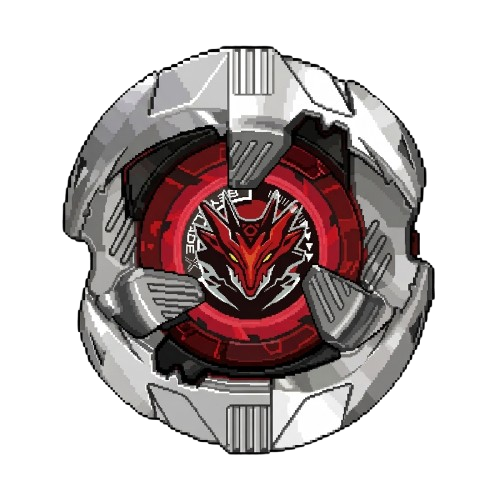
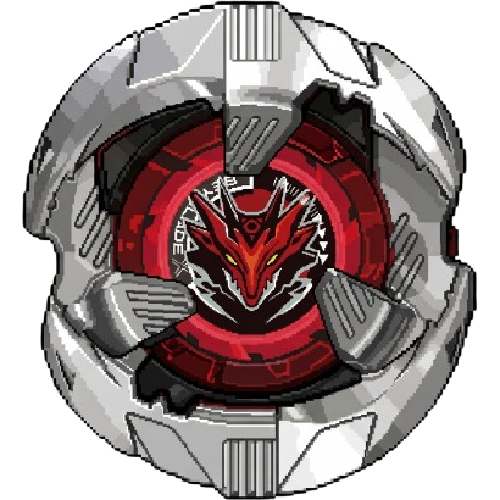
Crop Shelter Drake art so the battle disc fills the sprite box.
The PNG had ~18% extra padding, so even a 1.26 draw scale still
looked small next to full-bleed Beys. Trim and nearest-neighbor
scale back to 500px. Hit size stays r=4.85.

diff --git a/index.html b/index.html
@@ -7,14 +7,14 @@
     <link rel="preconnect" href="https://fonts.googleapis.com">
     <link rel="preconnect" href="https://fonts.gstatic.com" crossorigin>
     <link href="https://fonts.googleapis.com/css2?family=Kanit:wght@500;700;800;900&family=Staatliches&display=swap" rel="stylesheet">
-    <link rel="stylesheet" href="style.css?v=8.89">
+    <link rel="stylesheet" href="style.css?v=8.90">
 </head>
 <body>
 <div id="app"></div>
-<script src="movement-engine.js?v=8.89"></script>
-<script src="xrail-engine.js?v=8.89"></script>
-<script src="vs-commentary.js?v=8.89"></script>
-<script src="app.js?v=8.89"></script>
-<script src="rogue-mode.js?v=8.89"></script>
+<script src="movement-engine.js?v=8.90"></script>
+<script src="xrail-engine.js?v=8.90"></script>
+<script src="vs-commentary.js?v=8.90"></script>
+<script src="app.js?v=8.90"></script>
+<script src="rogue-mode.js?v=8.90"></script>
 </body>
 </html>

diff --git a/app.js b/app.js
@@ -624,8 +624,7 @@ const BLADE_ENGINE = {
         tier:"Bronze",
         spin:"Right",
         weight:32.4,
-        sprite:"assets/blades/shelterdrake.png",
-        battleSpriteScale:1.26,
+        sprite:"assets/blades/shelterdrake.png?v=8.90",
 
         card:{ovr:71,attack:70,knockback:68,defense:67,mobility:80,balance:82,stamina:78,burst:70},
 

diff --git a/AGENTS.md b/AGENTS.md
@@ -4,8 +4,8 @@ Vanilla HTML/CSS/JS Beyblade X–style stadium game. There is no package manager
 
 ## Cursor Cloud specific instructions
 
-- Serve the repo root over HTTP (`python3 -m http.server 8080`) and open `index.html`. Scripts are cache-busted (`style.css?v=8.89`, `xrail-engine.js?v=8.89`, `app.js?v=8.89`, `movement-engine.js?v=8.89`, `vs-commentary.js?v=8.89`, `rogue-mode.js?v=8.89`); hard-refresh after pulling.
-- Blade art is optional. If `BLADE_ENGINE` has a `sprite` path, combo cards and the battle model use that PNG; otherwise the gold/silver circle stays. Phoenix Wing stays on `assets/blades/phienix_wing1.png`. Other blades map to the PNGs in `assets/blades/` (Leon Claw uses `Leonfang.png`, Shelter Drake uses `shelterdrake.png`, Dran Sword uses `Dransword (1).png`). Battle sprites are sized to the circle (`r=4.85`) and spin clockwise from live RPM until 0. Shelter Drake’s PNG has extra padding, so its battle model uses `battleSpriteScale` `1.26` (visual only; hit size stays `r=4.85`). Live battle Beys draw a faint, short (~220ms) gold/slate motion trail under the model so the path is readable on the light bowl; it is visual-only and does not change physics.
+- Serve the repo root over HTTP (`python3 -m http.server 8080`) and open `index.html`. Scripts are cache-busted (`style.css?v=8.90`, `xrail-engine.js?v=8.90`, `app.js?v=8.90`, `movement-engine.js?v=8.90`, `vs-commentary.js?v=8.90`, `rogue-mode.js?v=8.90`); hard-refresh after pulling.
+- Blade art is optional. If `BLADE_ENGINE` has a `sprite` path, combo cards and the battle model use that PNG; otherwise the gold/silver circle stays. Phoenix Wing stays on `assets/blades/phienix_wing1.png`. Other blades map to the PNGs in `assets/blades/` (Leon Claw uses `Leonfang.png`, Shelter Drake uses `shelterdrake.png` (cropped to fill the sprite box; the original file had extra padding so the battle disc looked small), Dran Sword uses `Dransword (1).png`). Battle sprites are sized to the circle (`r=4.85`) and spin clockwise from live RPM until 0. A blade may set `battleSpriteScale` for visual-only size (hit size stays `r=4.85`). Live battle Beys draw a faint, short (~220ms) gold/slate motion trail under the model so the path is readable on the light bowl; it is visual-only and does not change physics.
 - Bit art lives in `assets/blades/png bit/`. Selectable bits with a PNG (Flat, Low Flat, Rush, Point, Hexa, Level, Wedge, Kick, Ball, Orb, Needle, Quake) show on bit pick cards and the VS combo plates. Low Rush still has no dedicated file. Taper / High Needle / Elevate are not selectable.
 - Ratchet art lives in `assets/blades/ratchets/` as `{number}-60.png`. Pick cards and VS plates use that 60-height photo for 60, 70, and 80 until height recolors exist.
 - Blade pick cards tint by `tier` (gold / silver / bronze). Home is a dark stadium lobby: SPIN WARS with a green X, line “Two Beys. X-Rail. First to 7.”, then LET IT RIP (Quick Play), locked Campaign, and Rogue. Quick Play is a league board (featured Quick Match, then Bronze / Silver / Gold / Custom plates). Rogue landing is New Game / Continue / a Help link — not a third copy of the league list. Campaign is locked. Continue is greyed until a run is saved in `localStorage` plus a `swx_rogue` cookie. Closing the browser resumes that screen; a mid-battle close restarts the battle with the saved score. Eighteen matches, each first to 7, then infinite after Shark Scale (hidden Gold, Rogue final boss only). Minis at 6 and 12. Starter is blade-only (random ratchet and bit). Silver and Gold open in Bronze form (stats pulled toward Bronze); they evolve, Bronze takes Enhanced instead. Rogue pick cards show luck A/B/C. Gold shop stays thin because evolve is the paycheck. Combo VS plates are reused before every match. Rogue tints HIT/HOLD/MOVE only for upgrades (stat bumps, reforge, evolve, enhance, modifier) — not for CPU match-scale. CPU hidden scale keeps the Bey's shape (Attack stays attacky). After each hub pick, the next CPU takes the same number of upgrades you have locked in (rolled, not copied), plus starting-tier pressure: Bronze 1–3 extras, Silver 1–2, Gold 1. Those tint and box. Bronze CPU power sits a tad higher; Silver a little harder; Gold stays as it was. Picked stat upgrades also get their own stack boxes on the VS plate (net ATK +4 if you took +2 twice). An active modifier prints its name and short blurb on the plate. A corner DEV button lists every upgrade/modifier for add/remove playtest. Quick Play opens the league list (Quick Match, Bronze / Silver / Gold / Custom). Quick Match rolls random player and CPU combos on the VS plates with reroll on both sides, plus PLAY and Back. Combo check is a LIVE commentary box above the VS plates, then LET IT RIP; VS copy is 2–3 short sentences (what the Beys are trying to do, first to 7) without stat-number lectures. Plates show boxed OVR and META plus boxed HIT/HOLD/MOVE stats. Battle chrome is the same LIVE booth as the VS plates, then stadium, then names with ratchet · bit name (text only), RPM with a META box on the health bar row, then launch controls in `#launchDock`. The booth holds a line for a beat instead of rewriting every frame: one event, one line (launch, clash, rail, recover, finish), witty not a lecture, with an occasional late-point prediction. Quality ROLL still has BACK to VS. After the quality reveal, angle/technique has LET IT RIP only — no BACK to reroll. The scoreboard is `0 VS 0` with `first to 7` underneath (Rogue shows match number there). Over finish overlay is flames; Xtreme is lightning; spin finish keeps the spinning ring.
